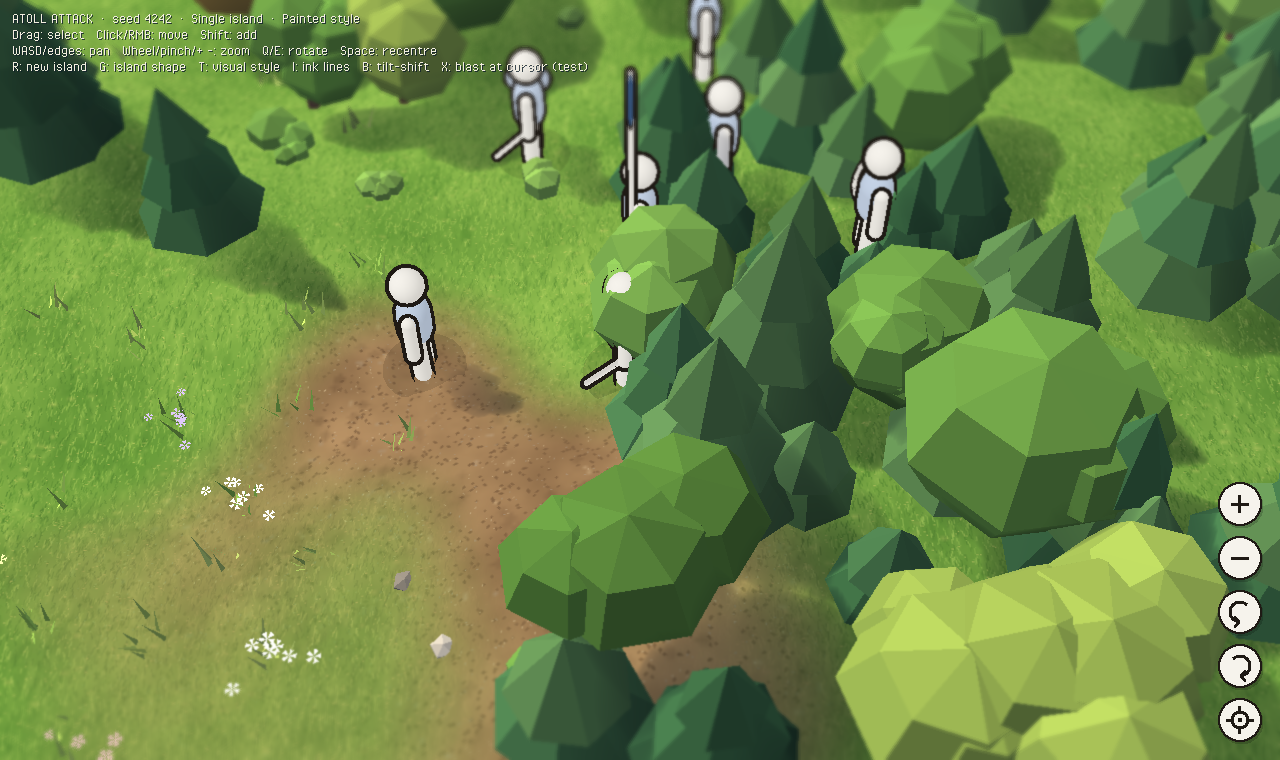
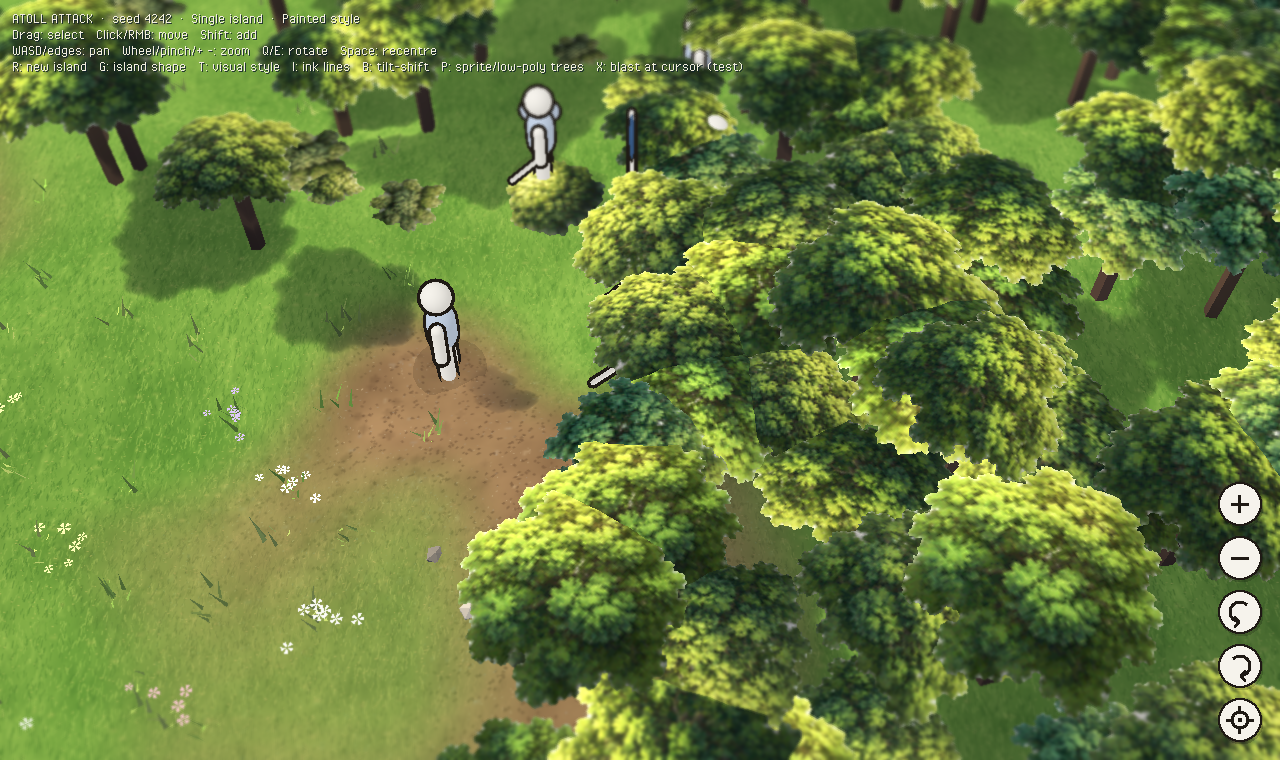
Sprite trees from the WildCurrent asset bank
- res/props: painted top-down canopies, bushes, boulders, waterline
  grass/reeds/cattails copied from mrisney/WildCurrent assets/art/bank
- SpriteProps: maps each sprite onto a smooth alpha-tested dome (one draw
  call per sprite), trims the art's 1px pale cutout outline and bleeds edge
  colour so mipmaps don't halo; silhouettes cast leaf-shaped shadows
- Props builds trees/bushes/rocks in both forms at the same spots; P
  toggles (sprites default in Classic and Painted); reeds in the shallows
- Resources embedded via hxd.Res.initEmbed(); ?props=sprites|lowpoly

Claude-Session: https://claude.ai/code/session_01Svr5p8hEFi3Q2Hxumcf7mR

diff --git a/README.md b/README.md
@@ -24,6 +24,7 @@ The goal of this spike is to answer one question: does Heaps give the Northgard-
 - **Ink rendering**: a screen-space edge pass that inks every silhouette at a constant line weight, plus topo-map contour lines, a bold coastline and slope hatching painted on the terrain. Press I to toggle the ink pass.
 - **Line-art units**: rounded, faceless figures with a paper-white fill and a restrained walk cycle.
 - **Sun shadows**: soft, cool-tinted directional shadows from trees, rocks, units and hills onto terrain and water.
+- **Sprite trees** (P toggles sprite/low-poly; sprites are the default in Classic and Painted): painted top-down canopies, bushes and boulders from the WildCurrent asset bank, mapped onto shallow domes with alpha-cut silhouettes that cast leaf-shaped shadows. Reeds and cattails stand in the shallows.
 - **Micro-scatter**: wildflowers in the meadows, shells on the beaches, loose pebbles in the uplands.
 - **Tilt-shift** (B to toggle; on by default in Painted).
 - **Prop variety**: palms leaning toward the sea, mixed broadleaf and pine woods with the odd turning tree, bushes, grass meadows, rock outcrops, driftwood, loose stones and dead snags on the heights. Placed by elevation band and clustered by noise, with a colour and size per instance, merged into a handful of draw calls.
@@ -43,6 +44,8 @@ src/
   render/FlatMeshBuilder.hx low-poly faceted geometry helper
   render/IslandView.hx      terrain, water, apex flag; shadow setup per mesh
   render/Props.hx           vegetation and rocks: species, biome placement, clustering
+  render/SpriteProps.hx     painted sprites on alpha-tested domes (one draw call per sprite)
+res/props/                  sprite PNGs (embedded into the build; see SOURCE.md)
   render/WaterShader.hx     banded water from a heightmap texture + swell/shimmer
   render/TerrainStyle.hx    Classic bands + baked relief, Painted texture blend, or soft vertex colours
   render/GroundTextures.hx  painted, tileable grass/dirt/sand/rock textures generated at startup
@@ -115,6 +118,13 @@ On an Intel Mac, `haxe build-hl.hxml && hl bin/game.hl` also works and compiles 
 ### Editor
 
 Use VS Code with the **Haxe** extension (vshaxe) for completion and go-to-definition. Point it at `build-js.hxml`.
+
+## Adding art assets
+
+Everything in `res/` is embedded into the build (`hxd.Res.initEmbed()`), so the web version needs no asset server.
+
+- **A new tree, bush or rock sprite:** drop a top-down PNG with transparency into `res/props/`, then add its name to `CANOPIES`, `BUSHES`, `BOULDERS` or `REEDS` at the top of `src/render/Props.hx`. Placement, size variation, shadows and edge clean-up are automatic.
+- **3D models (later):** Heaps loads FBX. Put `res/models/x.fbx` in and load it with `hxd.Res.load("models/x.fbx").toHmd().makeObject()`. That's the route for rigged characters.
 
 ## Snapshots (for you or an agent)
 

diff --git a/CLAUDE.md b/CLAUDE.md
@@ -81,6 +81,11 @@ URL params on the web build make runs reproducible:
   pine forest and outcrops in the uplands; boulders and dead snags on peaks.
   Variety comes from species, per-instance colour and size, and noise
   clustering. Autumn trees are rare (about 6%) and muted.
+- **Sprite trees are the default** in Classic and Painted (P toggles low-poly).
+  The owner found the low-poly trees "blocky, artificial". The sprites come
+  from his WildCurrent repo (`assets/art/bank`). `SpriteProps` puts each on an
+  alpha-tested smooth dome, trims the art's 1 px pale outline, and bleeds edge
+  colour so mipmaps don't halo. Ink map keeps low-poly by default.
 - All colours live in `render/Palette.hx` and the style shaders. Don't
   hard-code colours elsewhere.
 
@@ -117,6 +122,10 @@ URL params on the web build make runs reproducible:
 - **To keep something out of the ink outlines** (grass), put it in the alpha
   pass (`blendMode = Alpha`, still opaque). The geometry buffer only reads the
   default pass.
+- **Assets live in `res/`** and are embedded at compile time (`hxd.Res.initEmbed()`
+  in `Main.init`). Load with `hxd.Res.load("props/x.png")`. A textured mesh
+  still needs vertex colours if it uses `setupMaterial` (that adds the
+  VertexColor shader): give the Polygon `colors` (white or a tint).
 - `cast` and `macro` are Haxe keywords. Don't use them as variable or parameter names.
 - 16-bit index buffers: `FlatMeshBuilder` splits geometry into chunks under
   65k vertices.

diff --git a/res/props/SOURCE.md b/res/props/SOURCE.md
@@ -1,0 +1,10 @@
+# Prop sprites
+
+Copied from Marc Risney's WildCurrent project
+(`github.com/mrisney/WildCurrent`, `assets/art/bank/`). These are painted,
+top-down sprites. In this game they're mapped onto shallow domes
+(`render/SpriteProps.hx`), so they read as 3D canopies, bushes and boulders
+from the RTS camera.
+
+The `-shadow` variants aren't used, because the game casts real shadows from
+the sprite's alpha.
